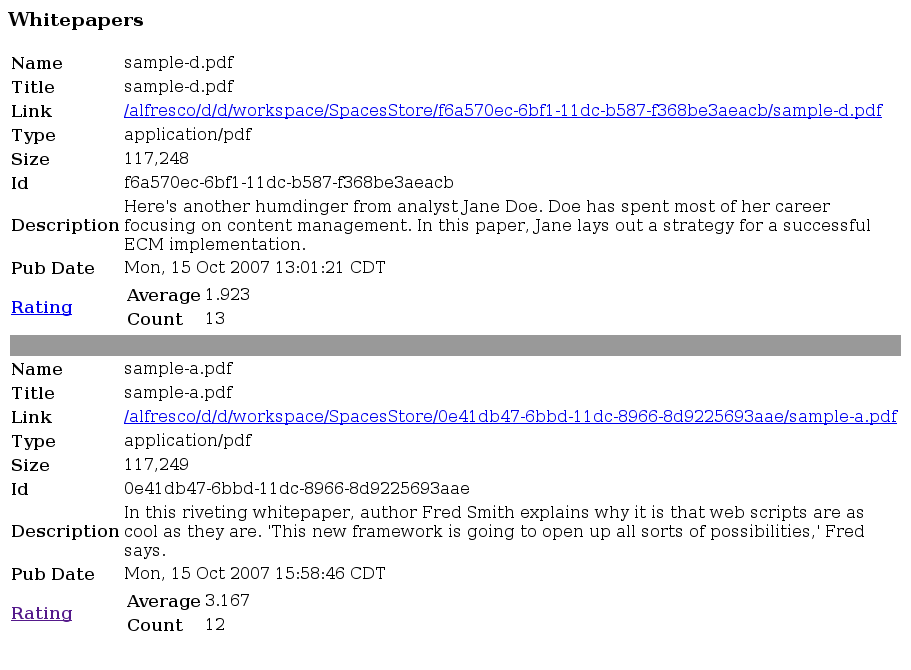
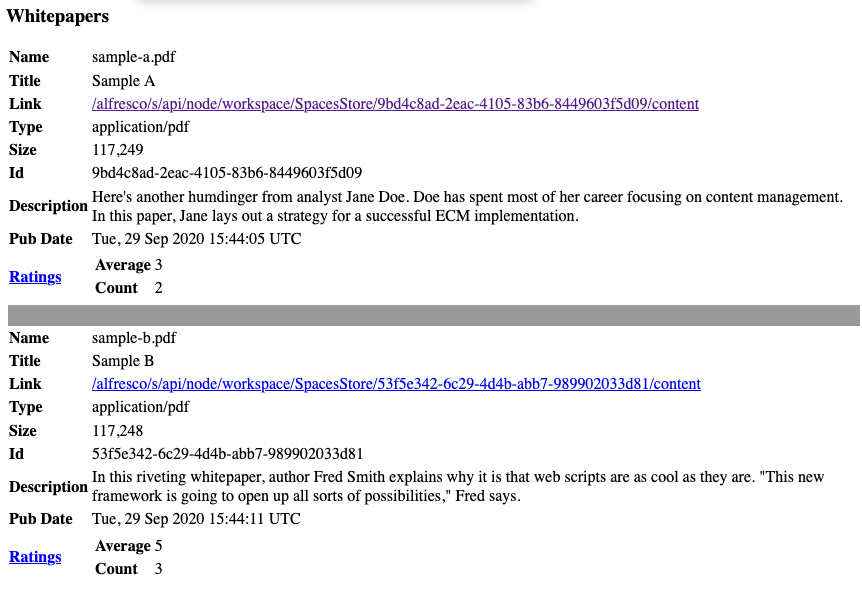
Modify the URL for the whitepapers responses to use the API for the download link instead of the old download servlet.

Changed region(s): [[0.0, 0.09, 1.0, 0.96], [0.0, 0.09, 0.0603, 0.3], [0.0, 0.0, 0.1508, 0.06]]

diff --git a/webscripts/tutorial/tutorial.html b/webscripts/tutorial/tutorial.html
@@ -447,19 +447,19 @@ Foo: bar</code></pre>
             <span class="er">&lt;</span>#list whitepapers as child&gt;
                 <span class="kw">&lt;tr&gt;</span>
                     <span class="kw">&lt;td&gt;&lt;b&gt;</span>Name<span class="kw">&lt;/b&gt;&lt;/td&gt;</span>
-                      <span class="kw">&lt;td&gt;</span>${child.whitepaper.properties.name}<span class="kw">&lt;/td&gt;</span>
+                    <span class="kw">&lt;td&gt;</span>${child.whitepaper.properties.name}<span class="kw">&lt;/td&gt;</span>
                 <span class="kw">&lt;/tr&gt;</span>
                 <span class="kw">&lt;tr&gt;</span>
                     <span class="kw">&lt;td&gt;&lt;b&gt;</span>Title<span class="kw">&lt;/b&gt;&lt;/td&gt;</span>
-                      <span class="kw">&lt;td&gt;</span>${child.whitepaper.properties[&quot;cm:title&quot;]!&quot;&quot;}<span class="kw">&lt;/td&gt;</span>
+                    <span class="kw">&lt;td&gt;</span>${child.whitepaper.properties[&quot;cm:title&quot;]!&quot;&quot;}<span class="kw">&lt;/td&gt;</span>
                 <span class="kw">&lt;/tr&gt;</span>
                 <span class="kw">&lt;tr&gt;</span>
                     <span class="kw">&lt;td&gt;&lt;b&gt;</span>Link<span class="kw">&lt;/b&gt;&lt;/td&gt;</span>
-                      <span class="kw">&lt;td&gt;&lt;a</span><span class="ot"> href=</span><span class="st">&quot;${url.context}${child.whitepaper.url}?guest=true&quot;</span><span class="kw">&gt;</span>${url.context}${child.whitepaper.url}<span class="kw">&lt;/a&gt;&lt;/td&gt;</span>
+                    <span class="kw">&lt;td&gt;&lt;a</span><span class="ot"> href=</span><span class="st">&quot;${url.serviceContext}/api/node/workspace/SpacesStore/${child.whitepaper.id}/content?guest=true&quot;</span><span class="kw">&gt;</span>${url.serviceContext}/api/node/workspace/SpacesStore/${child.whitepaper.id}/content<span class="kw">&lt;/a&gt;&lt;/td&gt;</span>
                 <span class="kw">&lt;/tr&gt;</span>
                 <span class="kw">&lt;tr&gt;</span>
                     <span class="kw">&lt;td&gt;&lt;b&gt;</span>Type<span class="kw">&lt;/b&gt;&lt;/td&gt;</span>
-                      <span class="kw">&lt;td&gt;</span>${child.whitepaper.mimetype}<span class="kw">&lt;/td&gt;</span>
+                    <span class="kw">&lt;td&gt;</span>${child.whitepaper.mimetype}<span class="kw">&lt;/td&gt;</span>
                 <span class="kw">&lt;/tr&gt;</span>
                 <span class="kw">&lt;tr&gt;</span>
                     <span class="kw">&lt;td&gt;&lt;b&gt;</span>Size<span class="kw">&lt;/b&gt;&lt;/td&gt;</span>
@@ -467,7 +467,7 @@ Foo: bar</code></pre>
                 <span class="kw">&lt;/tr&gt;</span>
                 <span class="kw">&lt;tr&gt;</span>
                     <span class="kw">&lt;td&gt;&lt;b&gt;</span>Id<span class="kw">&lt;/b&gt;&lt;/td&gt;</span>
-                      <span class="kw">&lt;td&gt;</span>${child.whitepaper.id}<span class="kw">&lt;/td&gt;</span>
+                    <span class="kw">&lt;td&gt;</span>${child.whitepaper.id}<span class="kw">&lt;/td&gt;</span>
                 <span class="kw">&lt;/tr&gt;</span>
                 <span class="kw">&lt;tr&gt;</span>
                     <span class="kw">&lt;td&gt;&lt;b&gt;</span>Description<span class="kw">&lt;/b&gt;&lt;/td&gt;</span>
@@ -478,7 +478,7 @@ Foo: bar</code></pre>
                 <span class="kw">&lt;/tr&gt;</span>
                 <span class="kw">&lt;tr&gt;</span>
                     <span class="kw">&lt;td&gt;&lt;b&gt;</span>Pub Date<span class="kw">&lt;/b&gt;&lt;/td&gt;</span>
-                      <span class="kw">&lt;td&gt;</span>${child.whitepaper.properties[&quot;cm:modified&quot;]?string(datetimeformat)}<span class="kw">&lt;/td&gt;</span>
+                    <span class="kw">&lt;td&gt;</span>${child.whitepaper.properties[&quot;cm:modified&quot;]?string(datetimeformat)}<span class="kw">&lt;/td&gt;</span>
                 <span class="kw">&lt;/tr&gt;</span>
                 <span class="kw">&lt;tr&gt;</span>
                     <span class="kw">&lt;td&gt;&lt;b&gt;&lt;a</span><span class="ot"> href=</span><span class="st">&quot;${url.serviceContext}/rating.html?id=${child.whitepaper.id}</span><span class="er">&amp;</span><span class="st">guest=true&quot;</span><span class="kw">&gt;</span>Rating<span class="kw">&lt;/a&gt;&lt;/b&gt;&lt;/td&gt;</span>
@@ -497,8 +497,8 @@ Foo: bar</code></pre>
                 <span class="kw">&lt;/tr&gt;</span>
                 <span class="er">&lt;</span>#if !(child.whitepaper == whitepapers?last.whitepaper)&gt;
                     <span class="kw">&lt;tr&gt;</span>
-                          <span class="kw">&lt;td</span><span class="ot"> colspan=</span><span class="st">&quot;2&quot;</span><span class="ot"> bgcolor=</span><span class="st">&quot;999999&quot;</span><span class="kw">&gt;</span><span class="dv">&amp;nbsp;</span><span class="kw">&lt;/td&gt;</span>
-                      <span class="kw">&lt;/tr&gt;</span>
+                        <span class="kw">&lt;td</span><span class="ot"> colspan=</span><span class="st">&quot;2&quot;</span><span class="ot"> bgcolor=</span><span class="st">&quot;999999&quot;</span><span class="kw">&gt;</span><span class="dv">&amp;nbsp;</span><span class="kw">&lt;/td&gt;</span>
+                    <span class="kw">&lt;/tr&gt;</span>
                 <span class="er">&lt;</span>/#if&gt;
             <span class="er">&lt;</span>/#list&gt;
         <span class="kw">&lt;/table&gt;</span>
@@ -512,7 +512,7 @@ Foo: bar</code></pre>
         {
             &quot;name&quot; : &quot;${child.whitepaper.properties.name}&quot;,
             &quot;title&quot; : &quot;${child.whitepaper.properties[&quot;cm:title&quot;]}&quot;,
-            &quot;link&quot; : &quot;${url.context}${child.whitepaper.url}&quot;,
+            &quot;link&quot; : &quot;${url.serviceContext}/api/node/workspace/SpacesStore/${child.whitepaper.id}/content&quot;,
             &quot;type&quot; : &quot;${child.whitepaper.mimetype}&quot;,
             &quot;size&quot; : &quot;${child.whitepaper.size}&quot;,
             &quot;id&quot; : &quot;${child.whitepaper.id}&quot;,
@@ -688,12 +688,12 @@ Foo: bar</code></pre>
 
     <span class="kw">public</span> NodeService <span class="fu">getNodeService</span>() {
         <span class="kw">return</span> nodeService;
-      }
+    }
 
 
     <span class="kw">public</span> <span class="dt">void</span> <span class="fu">setNodeService</span>(NodeService nodeService) {
         <span class="kw">this</span>.<span class="fu">nodeService</span> = nodeService;
-      }    
+    }    
 }</code></pre>
 <p>The <code>create()</code> method expects a <code>nodeRef</code> that is being rated, a <code>rating</code>, and the <code>user</code> creating the rating. The method checks the node to see if it already has the rateable aspect and adds it if it does not. Then, it sets up the rating and user properties to be set on the rating object. Finally, it calls <code>createNode()</code> on the Alfresco node service to create the rating as a child of the object being rated.</p>
 <p>As you can see, this class does not know that it will be invoked by a web script. It's generic enough to be used by anything that needs to create a rating.</p>

diff --git a/webscripts/tutorial/tutorial.md b/webscripts/tutorial/tutorial.md
@@ -679,19 +679,19 @@ following content:
             <#list whitepapers as child>
                 <tr>
                     <td><b>Name</b></td>
-	                  <td>${child.whitepaper.properties.name}</td>
+	                <td>${child.whitepaper.properties.name}</td>
                 </tr>
                 <tr>
                     <td><b>Title</b></td>
-	                  <td>${child.whitepaper.properties["cm:title"]!""}</td>
+	                <td>${child.whitepaper.properties["cm:title"]!""}</td>
                 </tr>
                 <tr>
                     <td><b>Link</b></td>
-	                  <td><a href="${url.context}${child.whitepaper.url}?guest=true">${url.context}${child.whitepaper.url}</a></td>
+	                <td><a href="${url.serviceContext}/api/node/workspace/SpacesStore/${child.whitepaper.id}/content?guest=true">${url.serviceContext}/api/node/workspace/SpacesStore/${child.whitepaper.id}/content</a></td>
                 </tr>
                 <tr>
                     <td><b>Type</b></td>
-	                  <td>${child.whitepaper.mimetype}</td>
+	                <td>${child.whitepaper.mimetype}</td>
                 </tr>
                 <tr>
                     <td><b>Size</b></td>
@@ -699,7 +699,7 @@ following content:
                 </tr>
                 <tr>
                     <td><b>Id</b></td>
-	                  <td>${child.whitepaper.id}</td>
+	                <td>${child.whitepaper.id}</td>
                 </tr>
                 <tr>
                     <td><b>Description</b></td>
@@ -710,7 +710,7 @@ following content:
                 </tr>
                 <tr>
                     <td><b>Pub Date</b></td>
-	                  <td>${child.whitepaper.properties["cm:modified"]?string(datetimeformat)}</td>
+	                <td>${child.whitepaper.properties["cm:modified"]?string(datetimeformat)}</td>
                 </tr>
                 <tr>
                     <td><b><a href="${url.serviceContext}/rating.html?id=${child.whitepaper.id}&guest=true">Rating</a></b></td>
@@ -729,8 +729,8 @@ following content:
                 </tr>
                 <#if !(child.whitepaper == whitepapers?last.whitepaper)>
                     <tr>
-	                      <td colspan="2" bgcolor="999999">&nbsp;</td>
-	                  </tr>
+	                    <td colspan="2" bgcolor="999999">&nbsp;</td>
+	                </tr>
                 </#if>
             </#list>
         </table>
@@ -755,7 +755,7 @@ with the following content:
         {
             "name" : "${child.whitepaper.properties.name}",
             "title" : "${child.whitepaper.properties["cm:title"]}",
-            "link" : "${url.context}${child.whitepaper.url}",
+            "link" : "${url.serviceContext}/api/node/workspace/SpacesStore/${child.whitepaper.id}/content",
             "type" : "${child.whitepaper.mimetype}",
             "size" : "${child.whitepaper.size}",
             "id" : "${child.whitepaper.id}",
@@ -1111,12 +1111,12 @@ public class RatingBean {
 
     public NodeService getNodeService() {
         return nodeService;
-	  }
+	}
 
 
     public void setNodeService(NodeService nodeService) {
         this.nodeService = nodeService;
-	  }    
+	}    
 }
 ```
 
